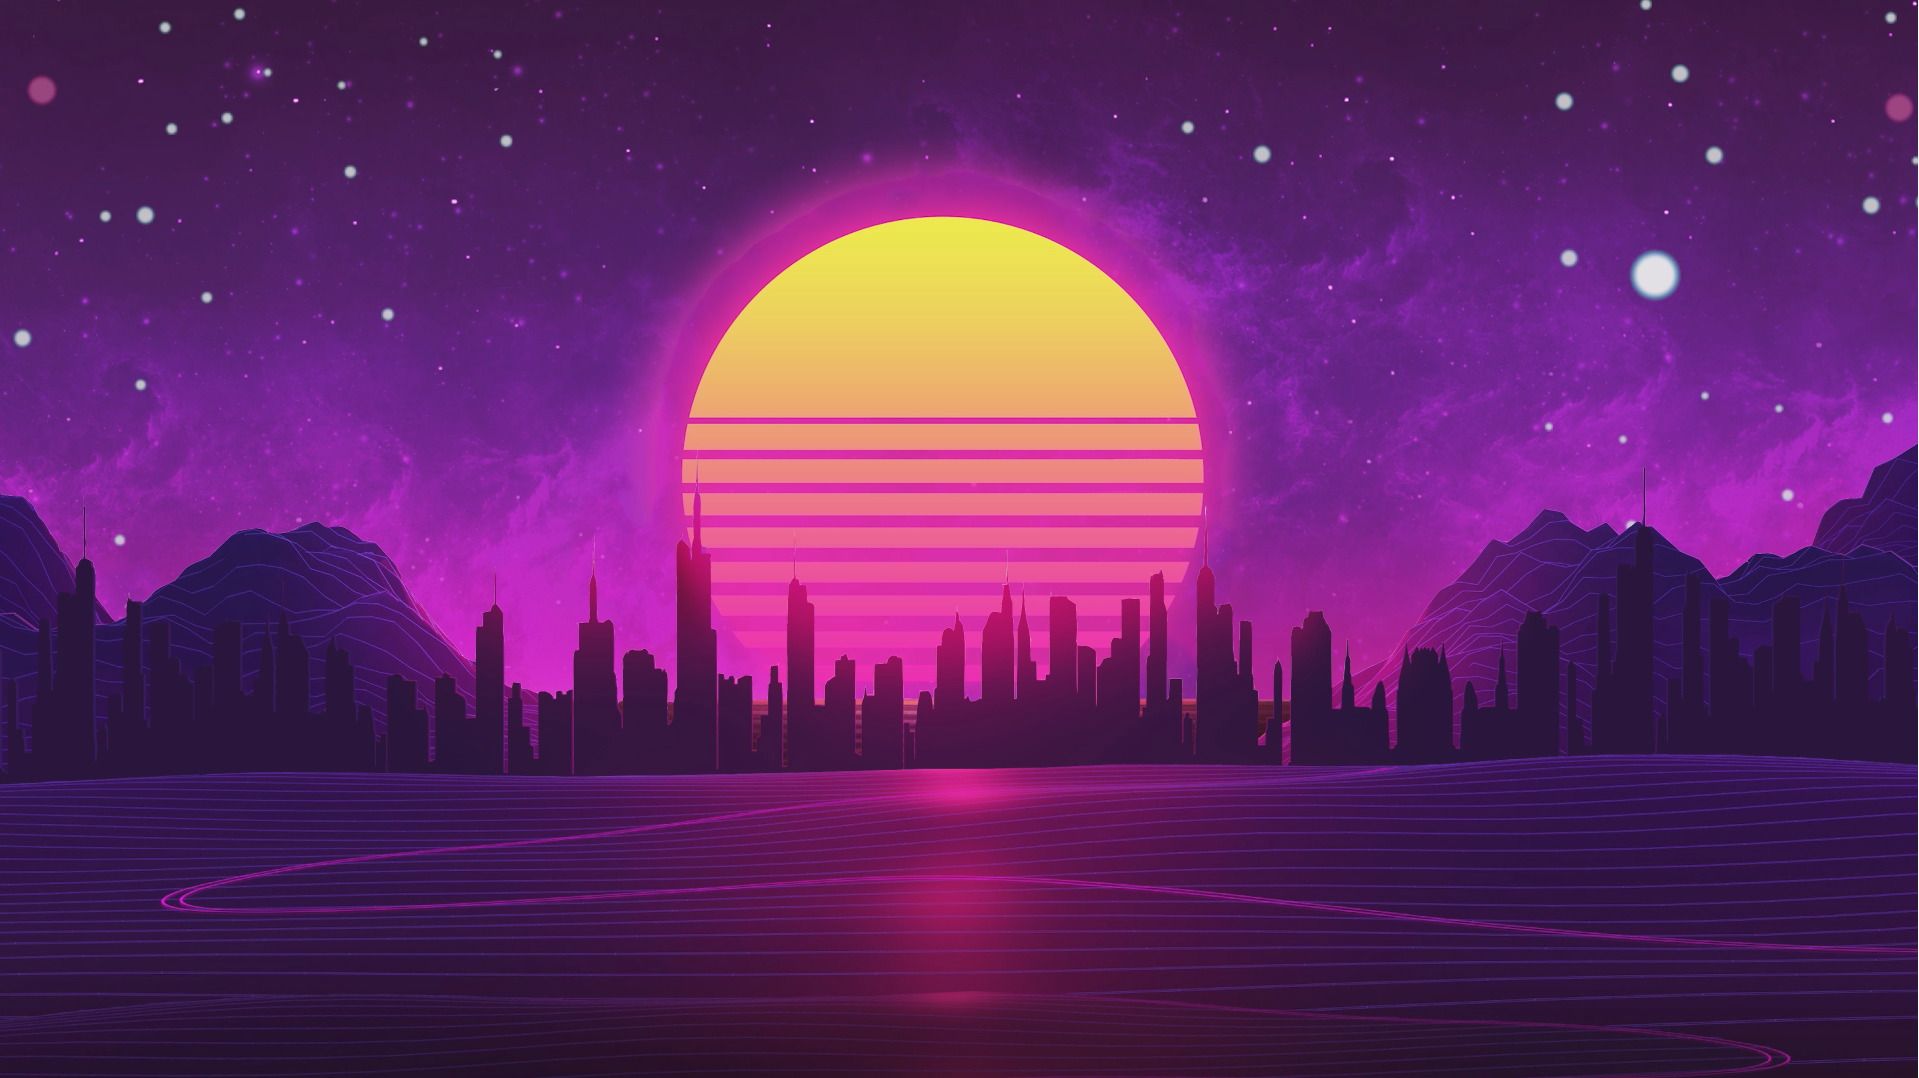
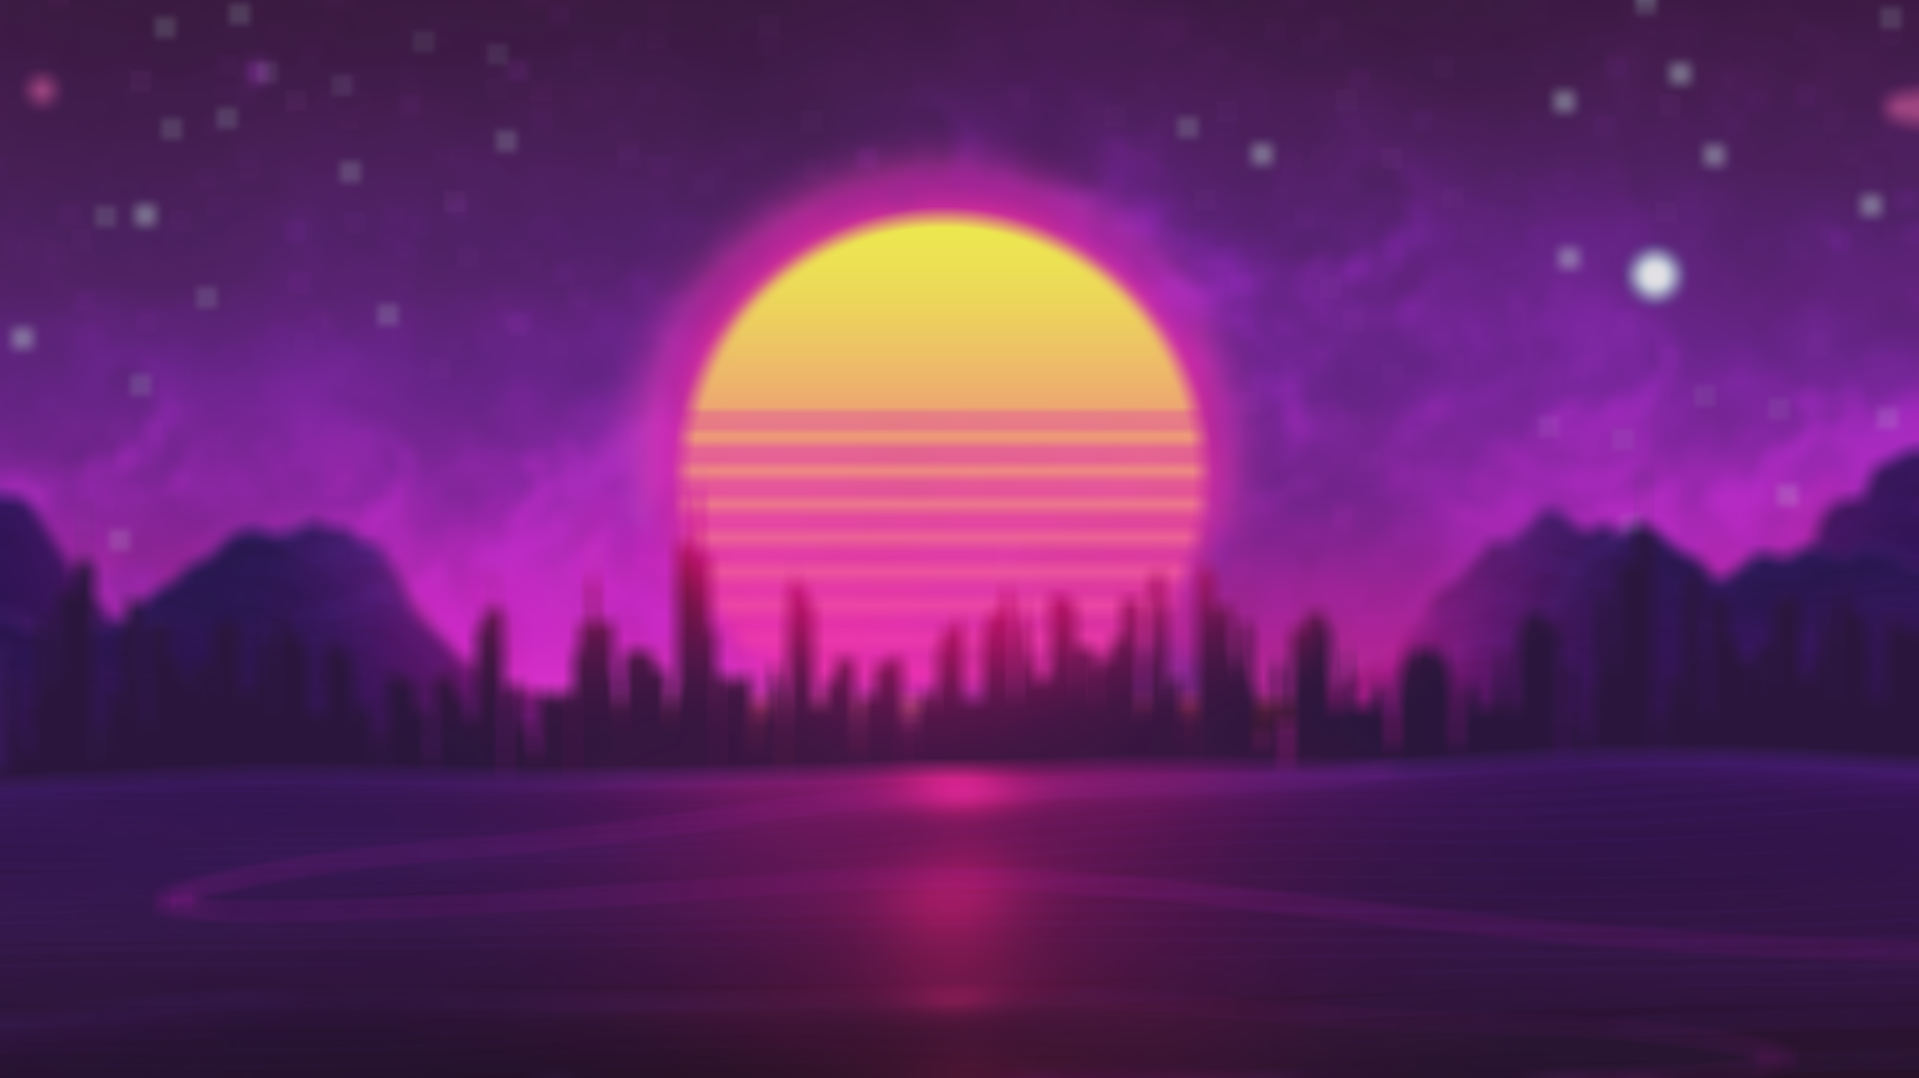
style footer

diff --git a/src/pages/Home/Home.jsx b/src/pages/Home/Home.jsx
@@ -1,5 +1,5 @@
 
-import { HomeWrapper, VideoContainer, Video, Content } from './styles';
+import { HomeWrapper } from './styles';
 import cityVideo from '../../../public/videos/city.mp4';
 import MainCard from '../../Components/MainCard/MainCard'
 import Carosel from '../../Components/Carosel/Carosel';
@@ -8,12 +8,8 @@ import Carosel from '../../Components/Carosel/Carosel';
 function Home() {
     return (
         <HomeWrapper>
-            <VideoContainer>
-                <Video autoPlay muted loop>
-                    <source src={cityVideo} type="video/mp4" />
-                </Video>
-            </VideoContainer>
-            <Content>
+
+            <div className="Content">
                 <div className="BannerWrapper">
                     <div className="banner-container">
 
@@ -27,7 +23,7 @@ function Home() {
                     </div>
                     <div className='recommended-games'>
                         <div className="left-wrapper">
-                            <MainCard variant="main" 
+                            <MainCard variant="main"
                                 gameName="Hogwarts Legacy"
                                 backgroundUrl="https://cdn1.epicgames.com/offer/e97659b501af4e3981d5430dad170911/EGS_HogwartsLegacy_AvalancheSoftware_S1_2560x1440-2baf3188eb3c1aa248bcc1af6a927b7e"
                             />
@@ -39,21 +35,21 @@ function Home() {
                             </h2>
                             <div className="others-container">
 
-                                <MainCard variant="mini" 
-                                    gameName="The Witcher 4" 
-                                    backgroundUrl="https://img.olhardigital.com.br/wp-content/uploads/2022/03/The-Witcher-nova-saga.png"/>
-                                    
+                                <MainCard variant="mini"
+                                    gameName="The Witcher 4"
+                                    backgroundUrl="https://img.olhardigital.com.br/wp-content/uploads/2022/03/The-Witcher-nova-saga.png" />
+
                                 <MainCard variant="mini"
                                     gameName="Far Cry 6"
                                     backgroundUrl="https://encrypted-tbn0.gstatic.com/images?q=tbn:ANd9GcSlA8tzu9uav2s3dx3GW7qfEk62j4zVJtjHLQ&usqp=CAU" />
 
 
-                                <MainCard variant="mini" 
+                                <MainCard variant="mini"
                                     gameName="Dying Light 2 "
                                     backgroundUrl="https://cdn1.epicgames.com/salesEvent/salesEvent/EGS_DyingLight2StayHuman_Techland_Editions_S1_2560x1440-b1653c3096cf75c47c9a09a1a85b57a8"
                                 />
 
-                                <MainCard variant="mini" 
+                                <MainCard variant="mini"
                                     gameName="The Day Before"
                                     backgroundUrl="https://assetsio.reedpopcdn.com/The-Day-Before_wNRBJDK.jpg?width=1600&height=900&fit=crop&quality=100&format=png&enable=upscale&auto=webp"
                                 />
@@ -72,7 +68,7 @@ function Home() {
                 </section>
 
 
-            </Content>
+            </div>
         </HomeWrapper>
     );
 }

diff --git a/src/pages/Home/styles.js b/src/pages/Home/styles.js
@@ -11,38 +11,14 @@ export const HomeWrapper = styled.div`
   background-size: cover;
   background-position: center;
   background-image: url(${mainBackground});
-
-`;
-
-export const VideoContainer = styled.div`
-  position: absolute;
-  top: 50%;
-  left: 50%;
-  transform: translate(-50%, -50%);
-  width: 100%;
-  height: 100%;
-
-    
-  background-position: center;
-  background-size: cover;
-  background-position: center;
-  background-image: url(${mainBackground});
-`;
-
-export const Video = styled.video`
-  width: 100%;
-  height: 100%;
-  object-fit: cover;
   
-  filter: blur(1rem);
-`;
+  display: flex;
+  align-items: center;
 
-export const Content = styled.div`
-  position: absolute;
+  .Content{
   margin-top: 12rem;
   top: 50%;
   left: 50%;
-  transform: translate(-50%, -50%);
   text-align: center;
   color: white;
 
@@ -82,8 +58,7 @@ export const Content = styled.div`
     flex-direction: column;
     align-items: center;
     justify-content: start;
-    margin-bottom: 3%;
-    
+    margin:3%;  
     .main-title{
       width: 940px;
       height: 15%;
@@ -153,4 +128,30 @@ export const Content = styled.div`
     }
 
   }
+}
+
 `;
+
+export const VideoContainer = styled.div`
+  position: absolute;
+  top: 50%;
+  left: 50%;
+  transform: translate(-50%, -50%);
+  width: 100%;
+  height: 100%;
+
+    
+  background-position: center;
+  background-size: cover;
+  background-position: center;
+  background-image: url(${mainBackground});
+`;
+
+export const Video = styled.video`
+  width: 100%;
+  height: 100%;
+  object-fit: cover;
+  
+  filter: blur(1rem);
+`;
+

diff --git a/src/Components/Footer/styles.js b/src/Components/Footer/styles.js
@@ -1,0 +1,35 @@
+import styled from "styled-components";
+
+
+export const FooterWrapper = styled.div`
+    background-color:rgba(255, 0, 234, 0.05);
+    backdrop-filter: blur(1.8rem);
+    color: #fff;
+    padding: 1em;
+    display: flex;
+    align-items: center;
+    justify-content: space-between;
+    padding-left: 30em; 
+    padding-right: 30em; 
+    height: 12rem;
+
+    z-index: 1000;
+    position: absolute;
+
+    width:100%;
+
+    border-bottom: 1px solid transparent;
+    background: linear-gradient(to bottom, rgba(255, 0, 234, 0.08) 0%, rgba(114, 0, 137, 1.0) 100%);
+
+    padding-left: 30em;
+    padding-right: 30em;
+
+    display: flex;
+    align-items: center;
+    justify-content: start;
+
+    .Logo{
+    color: white;
+    padding-right: 15rem ;
+  }
+`

diff --git a/src/App.jsx b/src/App.jsx
@@ -4,6 +4,7 @@ import Categories from './pages/Categories/Categories';
 import Home from './pages/Home/Home';
 import MainHeader from './Components/Header/Header.tsx';
 import GlobalStyle from './GlobalStyle';
+import Footer from './Components/Footer/Footer'
 
 function App() {
 
@@ -17,6 +18,7 @@ function App() {
           <Route path="/home" element={<Home />} />
           <Route path="/categories" element={<Categories />} />
         </Routes>
+        <Footer/>
       </Router>
     </>
   );

diff --git a/src/Components/Footer/Footer.tsx b/src/Components/Footer/Footer.tsx
@@ -1,8 +1,13 @@
 import React from 'react'
+import { FooterWrapper } from './styles'
 
 function Footer() {
   return (
-    <div>Footer</div>
+    <FooterWrapper>
+      <div className="Logo">
+        Logo
+      </div>
+    </FooterWrapper>
   )
 }
 

diff --git a/src/Components/Carosel/style.js b/src/Components/Carosel/style.js
@@ -89,6 +89,7 @@ background-image: url(${arrowRight});
   background-color: #8d3986;
   border-radius: 57px;
   width: 63px;
+  height: 10px;
   display: flex;
   align-items: center;
   justify-content: center;
